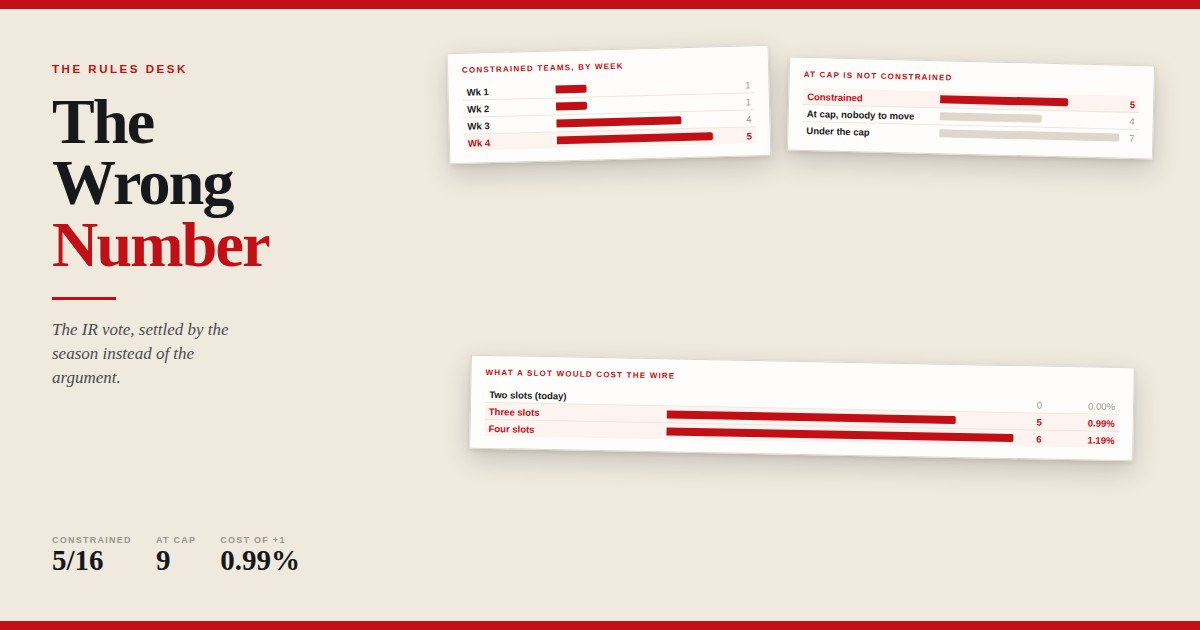
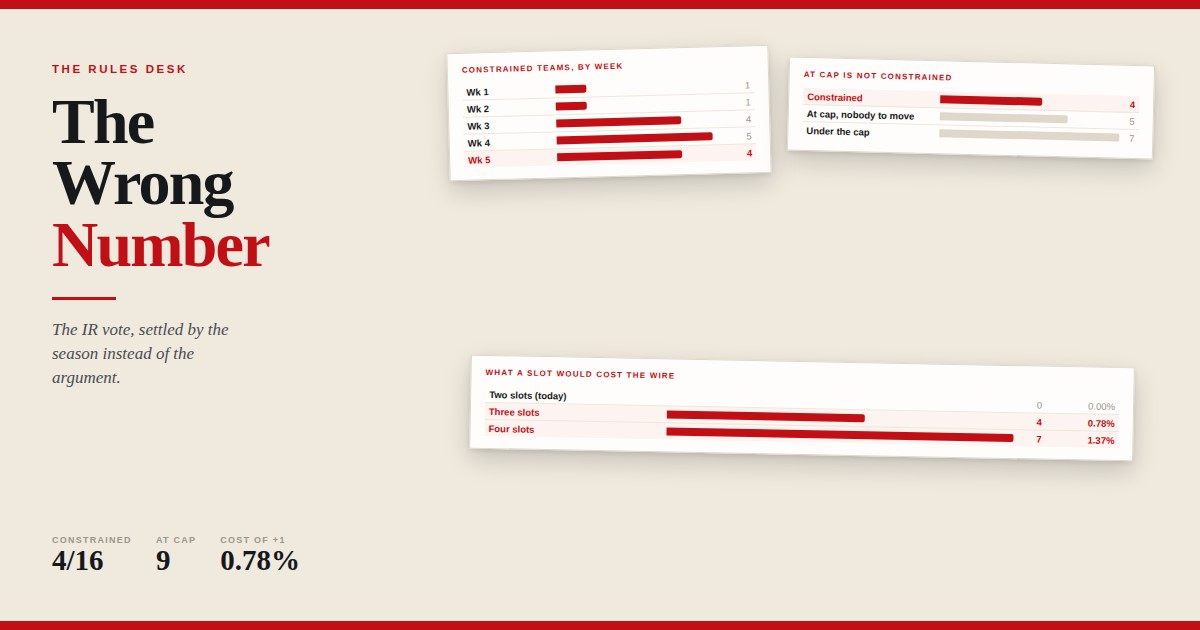
IR report: let week 5 overturn the piece, and stop asserting over the data
Week 5 landed and moved two conclusions, which is exactly the case the
generated prose was not handling. Constrained came back down 5 -> 4, and the
cost of a fourth slot rose 6 -> 7 while the third fell to 4.

Three sentences were written as though the series only climbs:

- The shape sentence hid a peak. It now reads the series properly -- flat
  run, peak and week, current value and the direction of the last step --
  instead of implying a monotonic rise to today's number.
- "The pressure is real and it is building" is present tense and was false
  this week. It now follows the sign of the last step.
- "A fourth buys almost nothing. If three passes, four is not worth a second
  ballot." At a gap of one player that was fair. The gap is now three, 1.8x
  the cost of a third slot, and the paragraph was contradicting its own next
  sentence. The verdict now branches on the arithmetic.

Adds a paragraph when the count falls, because that cuts against expansion
as much as the earlier rises cut for it: constrained is not a ratchet, a
manager leaves it when his injured man returns, and the honest five-week
summary is a range rather than a trend.

Also freezes docs/IR-OBSERVATION.md as a week-4 snapshot pointing at the
generated article, and refreshes the Story Queue brief -- John writes from
those notes, so stale numbers there are the most expensive kind.

Claude-Session: https://claude.ai/code/session_01UFuyFKGPqfLKJjzL4J7sQk

diff --git a/scfl-ir-report.html b/scfl-ir-report.html
@@ -2,12 +2,12 @@
 <html lang="en"><head><meta charset="utf-8">
 <meta name="viewport" content="width=device-width,initial-scale=1,viewport-fit=cover">
 <title>The Wrong Number &mdash; SCFL NewsRoom</title>
-<meta name="scfl:kicker" content="The Rules Desk &middot; September 2026">
-<meta name="scfl:published" content="2026-09-30">
+<meta name="scfl:kicker" content="The Rules Desk &middot; October 2026">
+<meta name="scfl:published" content="2026-10-07">
 <meta property="og:type" content="article">
 <meta property="og:site_name" content="SCFL NewsRoom">
 <meta property="og:title" content="The Wrong Number">
-<meta property="og:description" content="9 of 16 teams have a full IR, but only 5 are constrained. A third slot would cost 5 players off a 506-man wire.">
+<meta property="og:description" content="9 of 16 teams have a full IR, but only 4 are constrained. A third slot would cost 4 players off a 510-man wire.">
 <meta property="og:image" content="https://watsoncapitalinvest-dot.github.io/Claude/scfl-ir-report-og.jpg">
 <meta name="twitter:card" content="summary_large_image">
 <link rel="icon" href="newsroom-favicon.png">
@@ -157,7 +157,7 @@ p.b em{font-style:italic;}
 .ad .tiny{font-size:11px;}
 </style></head>
 <body><div class="wrap">
-<div class="runhead">SCFL NewsRoom &middot; The Rules Desk &middot; September 2026</div>
+<div class="runhead">SCFL NewsRoom &middot; The Rules Desk &middot; October 2026</div>
 <span class="flag">The Rules Desk</span>
 <h1>The Wrong <em>Number</em></h1>
 <p class="dek">The league will vote on a third injured-reserve slot, and all summer both
@@ -167,35 +167,36 @@ smaller than one camp claimed and climbing faster than the other could prove in 
 <div class="byline">The SCFL NewsRoom &middot; The Rules Desk</div>
 <div class="rule"></div>
 <div class="stats">
-      <div class="stat"><div class="k">Constrained now</div><div class="v">5</div>
+      <div class="stat"><div class="k">Constrained now</div><div class="v">4</div>
         <div class="n">of 16 teams &middot; was 1 in week 1</div></div>
       <div class="stat"><div class="k">At cap</div><div class="v">9</div>
         <div class="n">the number everybody argued</div></div>
-      <div class="stat"><div class="k">Cost of a third slot</div><div class="v">5</div>
-        <div class="n">players off a 506-man wire &middot; 0.99%</div></div>
-      <div class="stat"><div class="k">Cost of a fourth</div><div class="v">6</div>
-        <div class="n">1.19% &middot; one more team than the third</div></div>
+      <div class="stat"><div class="k">Cost of a third slot</div><div class="v">4</div>
+        <div class="n">players off a 510-man wire &middot; 0.78%</div></div>
+      <div class="stat"><div class="k">Cost of a fourth</div><div class="v">7</div>
+        <div class="n">1.37% &middot; one more team than the third</div></div>
     </div>
 <div class="sect">What A Slot Actually Does</div>
 <p class="b">Start with the mechanism, because most of the summer went past it. A Sleeper IR slot does <em>not</em> hold a player who would otherwise be sitting in the free-agent pool. It holds a man who is already on your roster. What it frees is an <em>active</em> roster spot &mdash; and that spot gets filled off the wire, immediately, because no manager in this league leaves one open.</p>
 <p class="b">So the cost of an extra IR spot is not the injured player. It is the healthy replacement his manager signs with the spot that opens up: one player out of the pool, per slot actually used. Which makes the whole question countable instead of arguable, because a manager only uses a new slot if two things are true of him right now &mdash; his IR is already full, <em>and</em> he is still carrying an injured man on his active roster. Everybody else costs the pool nothing. They would take the slot and have nobody to put in it.</p>
 <div class="pull">Both camps counted teams with a full IR. That counts who is inconvenienced, not what a slot costs.</div>
-<div class="sect">Figure One &mdash; The Record, Week 1 To Week 4</div>
+<div class="sect">Figure One &mdash; The Record, Week 1 To Week 5</div>
 <p class="b">Nobody had this in August. The argument was held over a preseason snapshot, which is the one week of the year when almost nothing is true yet. This is the same measurement taken every Wednesday since, automatically, and never edited afterwards.</p>
-<div class="ad"><figure><div class="scroll"><table><thead><tr><th class="lt"></th><th>IR&nbsp;used</th><th>At&nbsp;cap</th><th>Empty</th><th class="lt">Injured on active rosters</th><th></th><th class="lt">Constrained</th><th></th><th>Wire</th></tr></thead><tbody><tr><th scope="row" class="wk">Wk 1</th><td class="num">12/32</td><td class="num dim">3</td><td class="num dim">7</td><td class="bar"><span class="lo" style="width:23.1%"></span></td><td class="num dim">3</td><td class="bar"><span style="width:20.0%"></span></td><td class="num"><b>1</b></td><td class="num dim">503</td></tr><tr><th scope="row" class="wk">Wk 2</th><td class="num">18/32</td><td class="num dim">7</td><td class="num dim">5</td><td class="bar"><span class="lo" style="width:38.5%"></span></td><td class="num dim">5</td><td class="bar"><span style="width:20.0%"></span></td><td class="num"><b>1</b></td><td class="num dim">500</td></tr><tr><th scope="row" class="wk">Wk 3</th><td class="num">20/32</td><td class="num dim">8</td><td class="num dim">4</td><td class="bar"><span class="lo" style="width:76.9%"></span></td><td class="num dim">10</td><td class="bar"><span style="width:80.0%"></span></td><td class="num"><b>4</b></td><td class="num dim">502</td></tr><tr><th scope="row" class="wk">Wk 4</th><td class="num">21/32</td><td class="num dim">9</td><td class="num dim">4</td><td class="bar"><span class="lo" style="width:100.0%"></span></td><td class="num dim">13</td><td class="bar"><span style="width:100.0%"></span></td><td class="num"><b>5</b></td><td class="num dim">506</td></tr></tbody></table></div><figcaption>Constrained means IR full <em>and</em> still holding an injured player &mdash; the only state in which a manager would use a new slot. It has gone 1 &rarr; 1 &rarr; 4 &rarr; 5 while injured men parked on active rosters went 3 to 13. The free-agent pool has not moved: 503 in week 1, 506 now.</figcaption></figure></div>
-<p class="b">Two things in that table point in opposite directions, and both are true. The pressure the expansion side described is real and it is building &mdash; it just did not exist yet when the vote was being argued. In week 1 exactly 1 team in the league was constrained. It did not move at all for the first 2 weeks &mdash; still 1 in week 2 &mdash; and then went to 5 across weeks 3 and 4. A vote taken in August was voting on the flat part.</p>
+<div class="ad"><figure><div class="scroll"><table><thead><tr><th class="lt"></th><th>IR&nbsp;used</th><th>At&nbsp;cap</th><th>Empty</th><th class="lt">Injured on active rosters</th><th></th><th class="lt">Constrained</th><th></th><th>Wire</th></tr></thead><tbody><tr><th scope="row" class="wk">Wk 1</th><td class="num">12/32</td><td class="num dim">3</td><td class="num dim">7</td><td class="bar"><span class="lo" style="width:20.0%"></span></td><td class="num dim">3</td><td class="bar"><span style="width:20.0%"></span></td><td class="num"><b>1</b></td><td class="num dim">503</td></tr><tr><th scope="row" class="wk">Wk 2</th><td class="num">18/32</td><td class="num dim">7</td><td class="num dim">5</td><td class="bar"><span class="lo" style="width:33.3%"></span></td><td class="num dim">5</td><td class="bar"><span style="width:20.0%"></span></td><td class="num"><b>1</b></td><td class="num dim">500</td></tr><tr><th scope="row" class="wk">Wk 3</th><td class="num">20/32</td><td class="num dim">8</td><td class="num dim">4</td><td class="bar"><span class="lo" style="width:66.7%"></span></td><td class="num dim">10</td><td class="bar"><span style="width:80.0%"></span></td><td class="num"><b>4</b></td><td class="num dim">502</td></tr><tr><th scope="row" class="wk">Wk 4</th><td class="num">21/32</td><td class="num dim">9</td><td class="num dim">4</td><td class="bar"><span class="lo" style="width:86.7%"></span></td><td class="num dim">13</td><td class="bar"><span style="width:100.0%"></span></td><td class="num"><b>5</b></td><td class="num dim">506</td></tr><tr><th scope="row" class="wk">Wk 5</th><td class="num">23/32</td><td class="num dim">9</td><td class="num dim">2</td><td class="bar"><span class="lo" style="width:100.0%"></span></td><td class="num dim">15</td><td class="bar"><span style="width:80.0%"></span></td><td class="num"><b>4</b></td><td class="num dim">510</td></tr></tbody></table></div><figcaption>Constrained means IR full <em>and</em> still holding an injured player &mdash; the only state in which a manager would use a new slot. It has gone 1 &rarr; 1 &rarr; 4 &rarr; 5 &rarr; 4 while injured men parked on active rosters went 3 to 15. The free-agent pool has not moved: 503 in week 1, 510 now.</figcaption></figure></div>
+<p class="b">Two things in that table point in opposite directions, and both are true. The pressure the expansion side described is real, though it eased this week &mdash; it just did not exist yet when the vote was being argued. In week 1 exactly 1 team in the league was constrained. It did not move at all for the first 2 weeks &mdash; still 1 in week 2, then climbed to 5 by week 4, and came back to 4 in week 5. A vote taken in August was voting on the flat part.</p>
+<p class="b">That last move matters, and it cuts against the expansion case as much as the earlier ones cut for it. Constrained is not a ratchet. A manager leaves the count the moment his injured man comes back or gets cut, so the number breathes with the injury report rather than accumulating. Anyone arguing from a single week &mdash; including the August snapshot &mdash; is arguing from noise. The honest summary after 5 weeks is a range: 1 to 5, sitting at 4.</p>
 <div class="sect">Figure Two &mdash; At Cap Is Not Constrained</div>
-<p class="b">Here is where the counting went wrong. 9 of 16 teams have a full IR, and that is the figure that got quoted all summer. But 4 of those 9 are not holding a single injured player on their active roster. Give them a third slot and nothing happens: they have nobody to move into it and they sign nobody off the wire. Only 5 rosters are in the state that actually spends a slot.</p>
-<div class="ad"><figure><div class="scroll"><table><thead><tr><th class="lt"></th><th class="lt">IR</th><th>Injured, active</th><th class="lt">Who</th><th class="lt">State</th></tr></thead><tbody><tr class="st1"><th scope="row">Gumbas </th><td class="pips"><i>&#9679;</i><i>&#9679;</i></td><td class="num">4</td><td class="who">Andrei Iosivas, Caleb Williams, Terrance Ferguson&hellip;</td><td class="tiny"><span class="tag a">constrained</span></td></tr><tr class="st1"><th scope="row">Heavy Hitters</th><td class="pips"><i>&#9679;</i><i>&#9679;</i></td><td class="num">1</td><td class="who">Omar Cooper</td><td class="tiny"><span class="tag a">constrained</span></td></tr><tr class="st1"><th scope="row">Horsecollars </th><td class="pips"><i>&#9679;</i><i>&#9679;</i></td><td class="num">1</td><td class="who">Dallas Goedert</td><td class="tiny"><span class="tag a">constrained</span></td></tr><tr class="st1"><th scope="row">Pork Chop Express</th><td class="pips"><i>&#9679;</i><i>&#9679;</i></td><td class="num">1</td><td class="who">Jalen McMillan</td><td class="tiny"><span class="tag a">constrained</span></td></tr><tr class="st1"><th scope="row">n.W.o</th><td class="pips"><i>&#9679;</i><i>&#9679;</i></td><td class="num">1</td><td class="who">James Conner</td><td class="tiny"><span class="tag a">constrained</span></td></tr><tr class="st2"><th scope="row">*THE MACHINES*</th><td class="pips"><i>&#9679;</i><i>&#9679;</i></td><td class="num">&mdash;</td><td class="who"></td><td class="tiny"><span class="tag b">at cap, nobody to move</span></td></tr><tr class="st2"><th scope="row">Master-Jeti </th><td class="pips"><i>&#9679;</i><i>&#9679;</i></td><td class="num">&mdash;</td><td class="who"></td><td class="tiny"><span class="tag b">at cap, nobody to move</span></td></tr><tr class="st2"><th scope="row">StillTheCream</th><td class="pips"><i>&#9679;</i><i>&#9679;</i></td><td class="num">&mdash;</td><td class="who"></td><td class="tiny"><span class="tag b">at cap, nobody to move</span></td></tr><tr class="st2"><th scope="row">Wookie Leaks</th><td class="pips"><i>&#9679;</i><i>&#9679;</i></td><td class="num">&mdash;</td><td class="who"></td><td class="tiny"><span class="tag b">at cap, nobody to move</span></td></tr><tr class=""><th scope="row">Beaver Eaters </th><td class="pips"><i>&#9679;</i><u>&#9675;</u></td><td class="num">1</td><td class="who">Adonai Mitchell</td><td class="tiny"><span class="tag c">under the cap</span></td></tr><tr class=""><th scope="row">Guido Haters </th><td class="pips"><i>&#9679;</i><u>&#9675;</u></td><td class="num">1</td><td class="who">Josh Jacobs</td><td class="tiny"><span class="tag c">under the cap</span></td></tr><tr class=""><th scope="row">BIG BLUE</th><td class="pips"><i>&#9679;</i><u>&#9675;</u></td><td class="num">&mdash;</td><td class="who"></td><td class="tiny"><span class="tag c">under the cap</span></td></tr><tr class=""><th scope="row">Killer Klowns</th><td class="pips"><u>&#9675;</u><u>&#9675;</u></td><td class="num">1</td><td class="who">Travis Etienne</td><td class="tiny"><span class="tag c">under the cap</span></td></tr><tr class=""><th scope="row">Smoke Dragons</th><td class="pips"><u>&#9675;</u><u>&#9675;</u></td><td class="num">1</td><td class="who">Jack Bech</td><td class="tiny"><span class="tag c">under the cap</span></td></tr><tr class=""><th scope="row">The Powers of Pain</th><td class="pips"><u>&#9675;</u><u>&#9675;</u></td><td class="num">1</td><td class="who">Breece Hall</td><td class="tiny"><span class="tag c">under the cap</span></td></tr><tr class=""><th scope="row">Lil’ Chops</th><td class="pips"><u>&#9675;</u><u>&#9675;</u></td><td class="num">&mdash;</td><td class="who"></td><td class="tiny"><span class="tag c">under the cap</span></td></tr></tbody></table></div><figcaption>All 16 rosters as of week 4. Filled circles are IR slots in use, out of 2. &ldquo;Injured, active&rdquo; counts men Sleeper lists as unavailable who are still taking up an active spot. Counting the top two groups together &mdash; 9 teams &mdash; instead of the first alone &mdash; 5 &mdash; overstates the cost of expansion by 1.8 times.</figcaption></figure></div>
+<p class="b">Here is where the counting went wrong. 9 of 16 teams have a full IR, and that is the figure that got quoted all summer. But 5 of those 9 are not holding a single injured player on their active roster. Give them a third slot and nothing happens: they have nobody to move into it and they sign nobody off the wire. Only 4 rosters are in the state that actually spends a slot.</p>
+<div class="ad"><figure><div class="scroll"><table><thead><tr><th class="lt"></th><th class="lt">IR</th><th>Injured, active</th><th class="lt">Who</th><th class="lt">State</th></tr></thead><tbody><tr class="st1"><th scope="row">Gumbas </th><td class="pips"><i>&#9679;</i><i>&#9679;</i></td><td class="num">4</td><td class="who">Caleb Williams, Terrance Ferguson, Alec Pierce&hellip;</td><td class="tiny"><span class="tag a">constrained</span></td></tr><tr class="st1"><th scope="row">Pork Chop Express</th><td class="pips"><i>&#9679;</i><i>&#9679;</i></td><td class="num">2</td><td class="who">Dont&#x27;e Thornton, Tank Dell</td><td class="tiny"><span class="tag a">constrained</span></td></tr><tr class="st1"><th scope="row">StillTheCream</th><td class="pips"><i>&#9679;</i><i>&#9679;</i></td><td class="num">2</td><td class="who">Jadarian Price, Tank Bigsby</td><td class="tiny"><span class="tag a">constrained</span></td></tr><tr class="st1"><th scope="row">n.W.o</th><td class="pips"><i>&#9679;</i><i>&#9679;</i></td><td class="num">1</td><td class="who">James Conner</td><td class="tiny"><span class="tag a">constrained</span></td></tr><tr class="st2"><th scope="row">*THE MACHINES*</th><td class="pips"><i>&#9679;</i><i>&#9679;</i></td><td class="num">&mdash;</td><td class="who"></td><td class="tiny"><span class="tag b">at cap, nobody to move</span></td></tr><tr class="st2"><th scope="row">Beaver Eaters </th><td class="pips"><i>&#9679;</i><i>&#9679;</i></td><td class="num">&mdash;</td><td class="who"></td><td class="tiny"><span class="tag b">at cap, nobody to move</span></td></tr><tr class="st2"><th scope="row">Horsecollars </th><td class="pips"><i>&#9679;</i><i>&#9679;</i></td><td class="num">&mdash;</td><td class="who"></td><td class="tiny"><span class="tag b">at cap, nobody to move</span></td></tr><tr class="st2"><th scope="row">Master-Jeti </th><td class="pips"><i>&#9679;</i><i>&#9679;</i></td><td class="num">&mdash;</td><td class="who"></td><td class="tiny"><span class="tag b">at cap, nobody to move</span></td></tr><tr class="st2"><th scope="row">Wookie Leaks</th><td class="pips"><i>&#9679;</i><i>&#9679;</i></td><td class="num">&mdash;</td><td class="who"></td><td class="tiny"><span class="tag b">at cap, nobody to move</span></td></tr><tr class=""><th scope="row">Guido Haters </th><td class="pips"><i>&#9679;</i><u>&#9675;</u></td><td class="num">1</td><td class="who">Josh Jacobs</td><td class="tiny"><span class="tag c">under the cap</span></td></tr><tr class=""><th scope="row">Heavy Hitters</th><td class="pips"><i>&#9679;</i><u>&#9675;</u></td><td class="num">1</td><td class="who">Omar Cooper</td><td class="tiny"><span class="tag c">under the cap</span></td></tr><tr class=""><th scope="row">Killer Klowns</th><td class="pips"><i>&#9679;</i><u>&#9675;</u></td><td class="num">1</td><td class="who">Marcus Mariota</td><td class="tiny"><span class="tag c">under the cap</span></td></tr><tr class=""><th scope="row">BIG BLUE</th><td class="pips"><i>&#9679;</i><u>&#9675;</u></td><td class="num">&mdash;</td><td class="who"></td><td class="tiny"><span class="tag c">under the cap</span></td></tr><tr class=""><th scope="row">The Powers of Pain</th><td class="pips"><i>&#9679;</i><u>&#9675;</u></td><td class="num">&mdash;</td><td class="who"></td><td class="tiny"><span class="tag c">under the cap</span></td></tr><tr class=""><th scope="row">Lil’ Chops</th><td class="pips"><u>&#9675;</u><u>&#9675;</u></td><td class="num">2</td><td class="who">Jalen Coker, Pat Bryant</td><td class="tiny"><span class="tag c">under the cap</span></td></tr><tr class=""><th scope="row">Smoke Dragons</th><td class="pips"><u>&#9675;</u><u>&#9675;</u></td><td class="num">1</td><td class="who">Jack Bech</td><td class="tiny"><span class="tag c">under the cap</span></td></tr></tbody></table></div><figcaption>All 16 rosters as of week 5. Filled circles are IR slots in use, out of 2. &ldquo;Injured, active&rdquo; counts men Sleeper lists as unavailable who are still taking up an active spot. Counting the top two groups together &mdash; 9 teams &mdash; instead of the first alone &mdash; 4 &mdash; overstates the cost of expansion by 2.2 times.</figcaption></figure></div>
 <div class="sect">Figure Three &mdash; What It Would Cost The Wire</div>
 <p class="b">Now the number the vote is actually about. One constrained manager with one stranded player signs one replacement; a manager with four stranded players still only gets one slot, so he still only signs one. Add a fourth slot and he can take a second. That is the entire difference between the two proposals.</p>
-<div class="ad"><figure><div class="scroll"><table><thead><tr><th class="lt"></th><th class="lt">Players it takes out of the pool</th><th>Count</th><th>Share of pool</th><th>Pool after</th></tr></thead><tbody><tr class=""><th scope="row">Today, two slots</th><td class="bar"></td><td class="num"><b>&mdash;</b></td><td class="num dim">0.00%</td><td class="num dim">506</td></tr><tr class="hl"><th scope="row">Expand to three</th><td class="bar"><span style="width:83.3%"></span></td><td class="num"><b>5</b></td><td class="num dim">0.99%</td><td class="num dim">501</td></tr><tr class="hl"><th scope="row">Expand to four</th><td class="bar"><span style="width:100.0%"></span></td><td class="num"><b>6</b></td><td class="num dim">1.19%</td><td class="num dim">500</td></tr></tbody></table></div><figcaption>The pool is every unowned player on an NFL roster at a fantasy position: 506 men in week 4. A third slot takes 0.99 per cent of it. A fourth takes 1.19 per cent &mdash; 1 more player than the third, because only 1 manager in the league is currently holding more than one injured player on an active roster.</figcaption></figure></div>
+<div class="ad"><figure><div class="scroll"><table><thead><tr><th class="lt"></th><th class="lt">Players it takes out of the pool</th><th>Count</th><th>Share of pool</th><th>Pool after</th></tr></thead><tbody><tr class=""><th scope="row">Today, two slots</th><td class="bar"></td><td class="num"><b>&mdash;</b></td><td class="num dim">0.00%</td><td class="num dim">510</td></tr><tr class="hl"><th scope="row">Expand to three</th><td class="bar"><span style="width:57.1%"></span></td><td class="num"><b>4</b></td><td class="num dim">0.78%</td><td class="num dim">506</td></tr><tr class="hl"><th scope="row">Expand to four</th><td class="bar"><span style="width:100.0%"></span></td><td class="num"><b>7</b></td><td class="num dim">1.37%</td><td class="num dim">503</td></tr></tbody></table></div><figcaption>The pool is every unowned player on an NFL roster at a fantasy position: 510 men in week 5. A third slot takes 0.78 per cent of it. A fourth takes 1.37 per cent &mdash; 3 more players than the third, because only 3 manager in the league is currently holding more than one injured player on an active roster.</figcaption></figure></div>
 <div class="sect">The 5 Who Are Not Using What They Have</div>
-<p class="b">One more thing the record turns up, and it is awkward for everybody. Beaver Eaters, Smoke Dragons, The Powers of Pain, Killer Klowns, Guido Haters are carrying an injured player on an active roster right now while sitting <em>under</em> the current cap. The slot they are asking about, or voting against, is a slot they already own and have not filled. Whatever the vote decides, it will not do anything for a manager who has not used number two.</p>
+<p class="b">One more thing the record turns up, and it is awkward for everybody. Smoke Dragons, Lil’ Chops, Killer Klowns, Heavy Hitters, Guido Haters are carrying an injured player on an active roster right now while sitting <em>under</em> the current cap. The slot they are asking about, or voting against, is a slot they already own and have not filled. Whatever the vote decides, it will not do anything for a manager who has not used number two.</p>
 <div class="sect">What This Settles</div>
-<p class="b"><b>A third slot is cheap.</b> 5 players, 0.99 per cent of the wire, 5 teams affected. The objection that expansion would strip the free-agent pool is not supported by the season: the pool has sat flat around 506 for 4 weeks while IR use climbed from 12 slots to 21.</p>
-<p class="b"><b>A fourth buys almost nothing.</b> It adds 1 player and 1 team over the third. If three passes, four is not worth a second ballot.</p>
-<p class="b"><b>And nobody has to remember any of this in December.</b> The log keeps taking its weekly reading whether anyone opens it or not, and every figure above re-types itself from the log. If the constrained count keeps climbing the way it has since week 3, the case gets stronger on its own and the page will say so. If it flattens out again, the page will say that instead.</p>
+<p class="b"><b>A third slot is cheap.</b> 4 players, 0.78 per cent of the wire, 4 teams affected. The objection that expansion would strip the free-agent pool is not supported by the season: the pool has sat flat around 510 for 5 weeks while IR use climbed from 12 slots to 23.</p>
+<p class="b"><b>A fourth is a different question, and it is worth separating.</b> It adds 3 players over the third &mdash; 1.8 times the cost of the third slot, not a rounding error on top of it &mdash; because 3 managers are currently holding more than one injured man on an active roster. Three and four are not the same vote and should not be argued as though they were. Note too that this is the one figure that moves fastest: it was 1 in week 1.</p>
+<p class="b"><b>And nobody has to remember any of this in December.</b> The log keeps taking its weekly reading whether anyone opens it or not, and every figure above re-types itself from the log. The constrained count has run between 1 and 5 so far and sits at 4; if it breaks out of that range in either direction the page will say so by itself, which is the only reason to trust it in December.</p>
 <div class="more">Every figure on this page is read straight out of
 <a href="ir-watch.json">ir-watch.json</a>, which <code>scripts/ir_watch.py</code> appends to
 once a week on its own and never rewrites. The live version, which recomputes from Sleeper on

diff --git a/scripts/build_ir.py b/scripts/build_ir.py
@@ -273,25 +273,46 @@ def figures(C):
       f'not moved: {first["free_agents"]:,} in week {first["week"]}, {last["free_agents"]:,} now.'
       f'</figcaption></figure>')
 
-    # describe the shape of the curve from the curve, not from an assumption
-    # about it: it sat flat before it moved, and saying otherwise is a lie the
-    # table underneath would immediately catch
-    rises = [r['week'] for i, r in enumerate(rows) if i and r['constrained'] > rows[i - 1]['constrained']]
+    # Describe the curve from the curve. The series is not guaranteed to rise:
+    # it can peak and fall back, and a sentence that assumes it only climbs
+    # becomes a lie the table directly underneath it would catch.
+    ser = [r['constrained'] for r in rows]
+    rises = [r['week'] for i, r in enumerate(rows) if i and ser[i] > ser[i - 1]]
+    peak = max(ser)
+    peak_wk = rows[ser.index(peak)]['week']
+    cur = ser[-1]
+    step = cur - ser[-2] if len(ser) > 1 else 0
     if rises:
         flat = rises[0] - first['week']
-        shape = (f'It did not move at all for the first {flat} week'
-                 f'{"s" if flat != 1 else ""} &mdash; still '
-                 f'{first["constrained"]} in week {rises[0] - 1} &mdash; and then went to '
-                 f'{len(cons)} across weeks {rises[0]} and {rises[-1]}.'
-                 if flat else
-                 f'It has risen in {len(rises)} of the {len(rows) - 1} weeks since.')
+        bits = []
+        if flat:
+            bits.append(f'It did not move at all for the first {flat} week'
+                        f'{"s" if flat != 1 else ""} &mdash; still {first["constrained"]} in '
+                        f'week {rises[0] - 1}')
+        bits.append(f'then climbed to {peak} by week {peak_wk}')
+        if peak_wk != last['week'] or step < 0:
+            bits.append(f'and has sat at {cur} since' if step == 0 else
+                        f'and came back to {cur} in week {last["week"]}')
+        shape = ', '.join(bits) + '.'
+        shape = shape[0].upper() + shape[1:]
     else:
-        shape = f'It has not moved since: still {len(cons)} in week {last["week"]}.'
+        shape = f'It has not risen once since: {cur} in week {last["week"]}.'
+    # present tense only if the most recent step actually went up
+    now = ('real and it is still building' if step > 0 else
+           'real, though it eased this week' if step < 0 else
+           'real and it has held')
     P('<p class="b">Two things in that table point in opposite directions, and both are true. The '
-      'pressure the expansion side described is real and it is building &mdash; it just did not '
+      f'pressure the expansion side described is {now} &mdash; it just did not '
       f'exist yet when the vote was being argued. In week {first["week"]} exactly '
       f'{first["constrained"]} team in the league was constrained. {shape} '
       'A vote taken in August was voting on the flat part.</p>')
+    if step < 0:
+        P(f'<p class="b">That last move matters, and it cuts against the expansion case as much '
+          f'as the earlier ones cut for it. Constrained is not a ratchet. A manager leaves the '
+          f'count the moment his injured man comes back or gets cut, so the number breathes with '
+          f'the injury report rather than accumulating. Anyone arguing from a single week &mdash; '
+          f'including the August snapshot &mdash; is arguing from noise. The honest summary after '
+          f'{len(rows)} weeks is a range: {min(ser)} to {peak}, sitting at {cur}.</p>')
 
     S('Figure Two &mdash; At Cap Is Not Constrained')
     P(f'<p class="b">Here is where the counting went wrong. {last["teams_at_cap"]} of {n} teams '
@@ -381,16 +402,31 @@ def figures(C):
       f'pool is not supported by the season: the pool has sat flat around {pool:,} for '
       f'{len(rows)} weeks while IR use climbed from {first["ir_used_total"]} slots to '
       f'{last["ir_used_total"]}.</p>')
-    P(f'<p class="b"><b>A fourth buys almost nothing.</b> It adds {p2 - p1} '
-      f'{"player" if p2 - p1 == 1 else "players"} and '
-      f'{len(set(t["team"] for t in cons if t["would_use_2"] > 1))} '
-      f'{"team" if len(set(t["team"] for t in cons if t["would_use_2"] > 1)) == 1 else "teams"} '
-      f'over the third. If three passes, four is not worth a second ballot.</p>')
+    # The verdict on a fourth slot is the gap between the two proposals, and
+    # that gap moves week to week. Assert nothing the arithmetic is not saying
+    # this week: at one extra player a fourth is a rounding error, at three it
+    # is most of a second expansion and deserves to be argued on its own.
+    gap = p2 - p1
+    doubles = sum(1 for t in cons if t['stranded'] > 1)
+    plural = lambda k, w: f'{k} {w}{"" if k == 1 else "s"}'
+    if gap <= 1:
+        P(f'<p class="b"><b>A fourth buys almost nothing.</b> It adds {plural(gap, "player")} '
+          f'over the third, because only {plural(doubles, "manager")} in the league '
+          f'{"is" if doubles == 1 else "are"} holding more than one injured man on an active '
+          f'roster. If three passes, four is not worth a second ballot.</p>')
+    else:
+        P(f'<p class="b"><b>A fourth is a different question, and it is worth separating.</b> It '
+          f'adds {plural(gap, "player")} over the third &mdash; {p2/max(p1,1):.1f} times the cost '
+          f'of the third slot, not a rounding error on top of it &mdash; because '
+          f'{plural(doubles, "manager")} {"is" if doubles == 1 else "are"} currently holding more '
+          f'than one injured man on an active roster. Three and four are not the same vote and '
+          f'should not be argued as though they were. Note too that this is the one figure that '
+          f'moves fastest: it was {rows[0]["cost_plus2"]} in week {first["week"]}.</p>')
     P(f'<p class="b"><b>And nobody has to remember any of this in December.</b> The log keeps '
       f'taking its weekly reading whether anyone opens it or not, and every figure above re-types '
-      f'itself from the log. If the constrained count keeps climbing the way it has since week '
-      f'{rises[0] if rises else first["week"]}, the case gets stronger on its own and the page '
-      f'will say so. If it flattens out again, the page will say that instead.</p>')
+      f'itself from the log. The constrained count has run between {min(ser)} and {peak} so far '
+      f'and sits at {cur}; if it breaks out of that range in either direction the page will say '
+      f'so by itself, which is the only reason to trust it in December.</p>')
     return out
 
 

diff --git a/docs/IR-OBSERVATION.md b/docs/IR-OBSERVATION.md
@@ -1,8 +1,16 @@
 # IR Watch — what four weeks of real data say
 
+> **Superseded — this is a frozen week-4 snapshot, kept for the record.**
+> The living version is **`scfl-ir-report.html`** ("The Wrong Number"), which
+> `scripts/build_ir.py` re-types from the log every time it runs.
+> Week 5 has since moved two of the conclusions below: constrained came back
+> down from 5 to 4, and the cost of a *fourth* slot rose from 6 to 7 — so
+> "expanding to 4 buys almost nothing" is no longer true. A fourth now costs
+> 1.8× a third. Read the generated article, not this.
+
 *Record kept automatically by `scripts/ir_watch.py`, run every Wednesday by
 `.github/workflows/ir-watch.yml`. One row per week, never rewritten.
-Live view: `ir-watch.html`. Current through **week 4, 2026**.*
+Live view: `ir-watch.html`. Frozen at **week 4, 2026**.*
 
 ---
 
